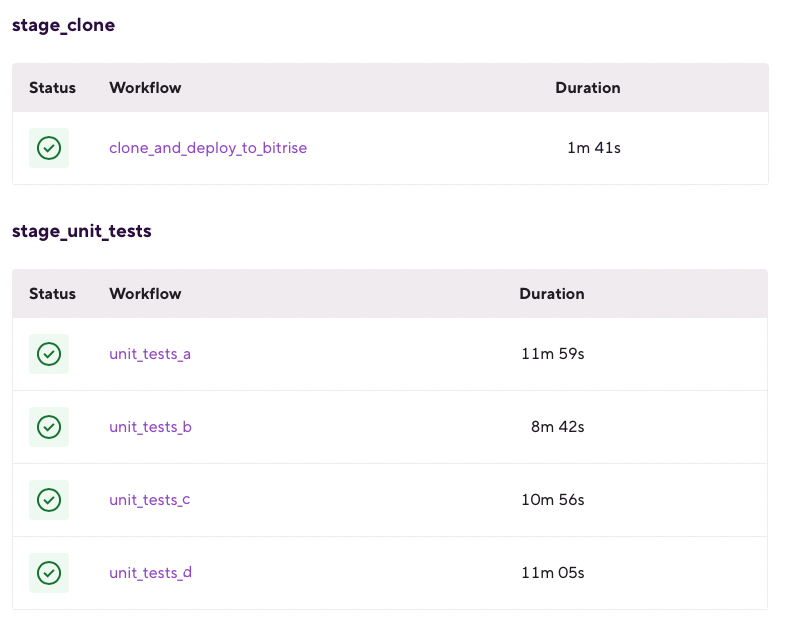
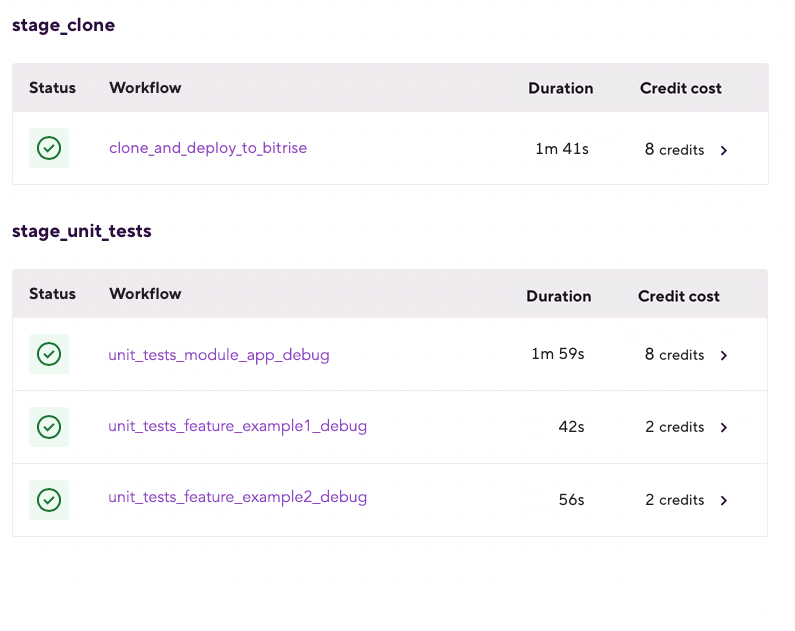
Updated md and png

diff --git a/recipes/android-parallel-unit-tests-multimodule.md b/recipes/android-parallel-unit-tests-multimodule.md
@@ -6,7 +6,7 @@ Running unit tests in several modules in parallel utilizing Pipelines.
 
 This Pipeline contains two Stages:
  - `stage_clone` — where the repository get cloned, zipped and deployed (via `intermediate files`) to Bitrise, to be accessible from each module. 
- - `stage_unit_tests` — that executes four Workflows in parallel (`unit_tests_module_a`, `unit_tests_module_b`, `unit_tests_module_c` and `unit_tests_module_d`). 
+ - `stage_unit_tests` — that executes three Workflows in parallel (`unit_tests_module_app_debug`, `unit_tests_feature_example1_debug` and `unit_tests_module_feature_example2_debug`). 
 
 In each of these four workflows, two utility Workflows will be run sequentially: 
 1. `_pull_intermediate_files`: This utility Workflow pull the intermediate files deployed in the `stage_clone` and unzips the result (which is the cloned repository).
@@ -54,10 +54,9 @@ stages:
     - clone_and_deploy_to_bitrise: {}
   stage_unit_tests:
     workflows:
-    - unit_tests_module_a: {}
-    - unit_tests_module_b: {}
-    - unit_tests_module_c: {}
-    - unit_tests_module_d: {}
+    - unit_tests_module_app_debug: {}
+    - unit_tests_feature_example1_debug: {}
+    - unit_tests_module_feature_example2_debug: {}
 
 workflows:
   clone_and_deploy_to_bitrise:
@@ -66,7 +65,7 @@ workflows:
     - cache-pull@2.7: {}
     - install-missing-android-tools@3.0:
         inputs:
-        - gradlew_path: "$PROJECT_LOCATION/gradlew"
+        - gradlew_path: "./gradlew"
     - create-zip@0:
         inputs:
         - destination: "/bitrise/source"
@@ -75,38 +74,30 @@ workflows:
         inputs:
         - pipeline_intermediate_files: "/bitrise/source.zip:BITRISE_SOURCE_DIR_ZIP"
 
-  unit_tests_module_a:
+  unit_tests_module_app_debug:
     envs:
-    - MODULE: module-a
+    - MODULE: app
     - VARIANT: debug
     before_run:
     - _pull_intermediate_files
     after_run:
     - _unit_tests
-  unit_tests_module_b:
+  unit_tests_feature_example1_debug:
     envs:
-    - MODULE: module-b
+    - MODULE: feature:example1
     - VARIANT: debug
     before_run:
     - _pull_intermediate_files
     after_run:
     - _unit_tests
-  unit_tests_module_c:
+  unit_tests_module_feature_example2_debug:
     envs:
-    - MODULE: module-c
+    - MODULE: feature:example2
     - VARIANT: debug
     before_run:
     - _pull_intermediate_files
     after_run:
-    - _unit_tests
-  unit_tests_module_d:
-    envs:
-    - MODULE: module-d
-    - VARIANT: debug
-    before_run:
-    - _pull_intermediate_files
-    after_run:
-    - _unit_tests
+    - _unit_tests 
 
   _pull_intermediate_files:
     steps:
